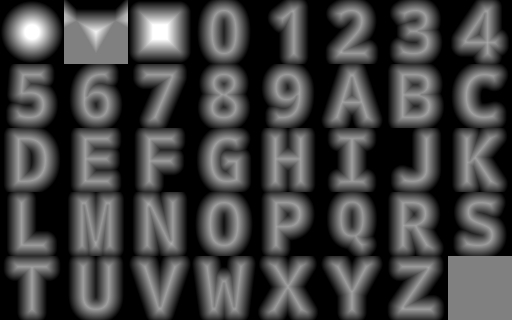
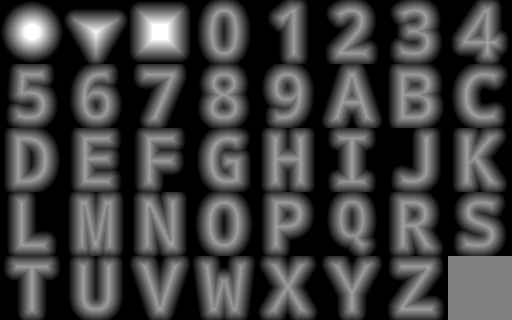
fix triangle

Changed region(s): [[0.125, 0.0, 0.25, 0.2188]]

diff --git a/src/bin/sdf_atlas_build.rs b/src/bin/sdf_atlas_build.rs
@@ -140,13 +140,39 @@ fn signed_distance(name:&str, x: f32, y: f32, font: &ab_glyph::FontRef<'_>, pars
     }
 }
 
-fn sdf_equilateral_triangle(x:f32,y:f32)->f32{ // side length normalized inside [-1,1]
+/// Signed distance to a centered equilateral triangle (negative inside, positive outside).
+/// Implementation based on Inigo Quilez's canonical formulation, adapted to keep the triangle
+/// comparable in scale to other shapes (circle, square ~0.8 extent).
+fn sdf_equilateral_triangle(x:f32,y:f32)->f32 {
+    // Scale so the circumradius roughly matches the 0.8 used for circle/square half-size.
+    // Using a content scale (s) we map input coordinates to canonical triangle of side length 2.
+    const S: f32 = 0.85; // tuning constant to visually match other primitives' apparent size
     let k = (3.0f32).sqrt();
-    let p = Vec2::new(x, y);
-    let mut q = Vec2::new(p.x.abs() - 0.8, p.y + 0.8/k);
-    if q.x + k*q.y > 0.0 { let tmp_x = (q.x - k*q.y)/2.0; let tmp_y = (-k*q.x - q.y)/2.0; q = Vec2::new(tmp_x, tmp_y); }
-    q.x = q.x.max(0.0); q.y = q.y.max(0.0);
-    -q.length() * q.y.signum() - (p.y + 0.8/k).min(0.0)
+    // Scale into canonical space
+    let mut p = Vec2::new(x / S, y / S);
+    // Canonical equilateral triangle SDF (IQ) with side length 2, centered.
+    p.x = p.x.abs() - 1.0;
+    p.y = p.y + 1.0 / k;
+    if p.x + k * p.y > 0.0 { // project into corner region if above hypotenuse
+        p = Vec2::new( (p.x - k*p.y)*0.5, (-k*p.x - p.y)*0.5 );
+    }
+    p.x -= p.x.clamp(-2.0, 0.0); // clamp to edge strip to avoid artifacts
+    let d = -p.length() * p.y.signum(); // negative inside
+    d * S // rescale distance back to original coordinate scale
+}
+
+#[cfg(test)]
+mod triangle_tests {
+    use super::sdf_equilateral_triangle;
+    // Basic sanity tests: center should be inside (negative), far outside should be positive,
+    // point near a vertex roughly zero.
+    #[test]
+    fn triangle_signs() {
+        assert!(sdf_equilateral_triangle(0.0, 0.0) < 0.0, "center should be inside");
+        assert!(sdf_equilateral_triangle(0.0, 1.2) > 0.0, "far above should be outside");
+        let near_edge = sdf_equilateral_triangle(0.0, -0.49); // near bottom edge
+        assert!(near_edge.abs() < 0.2, "expected near surface distance, got {}", near_edge);
+    }
 }
 
 fn sdf_glyph_placeholder(name:&str, x:f32,y:f32)->f32{ // Fallback simple shape (only used if outline missing)
